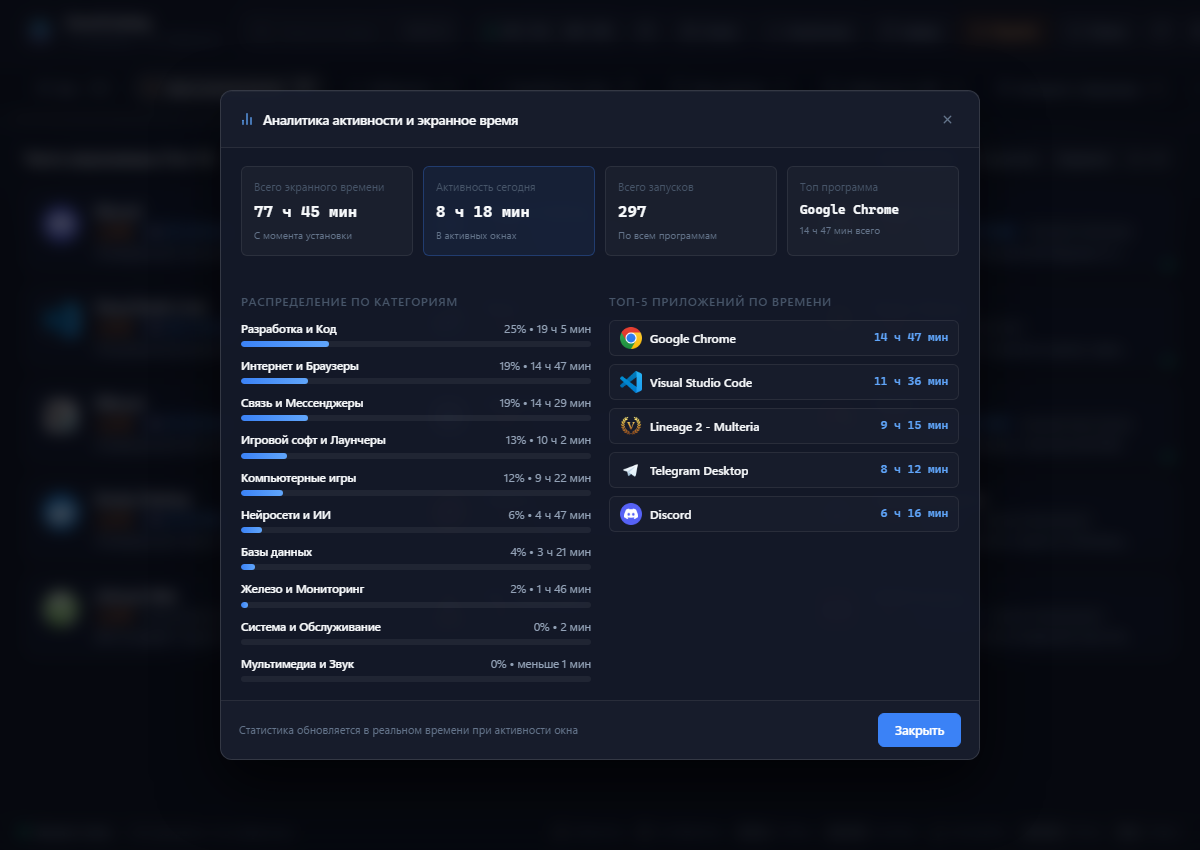
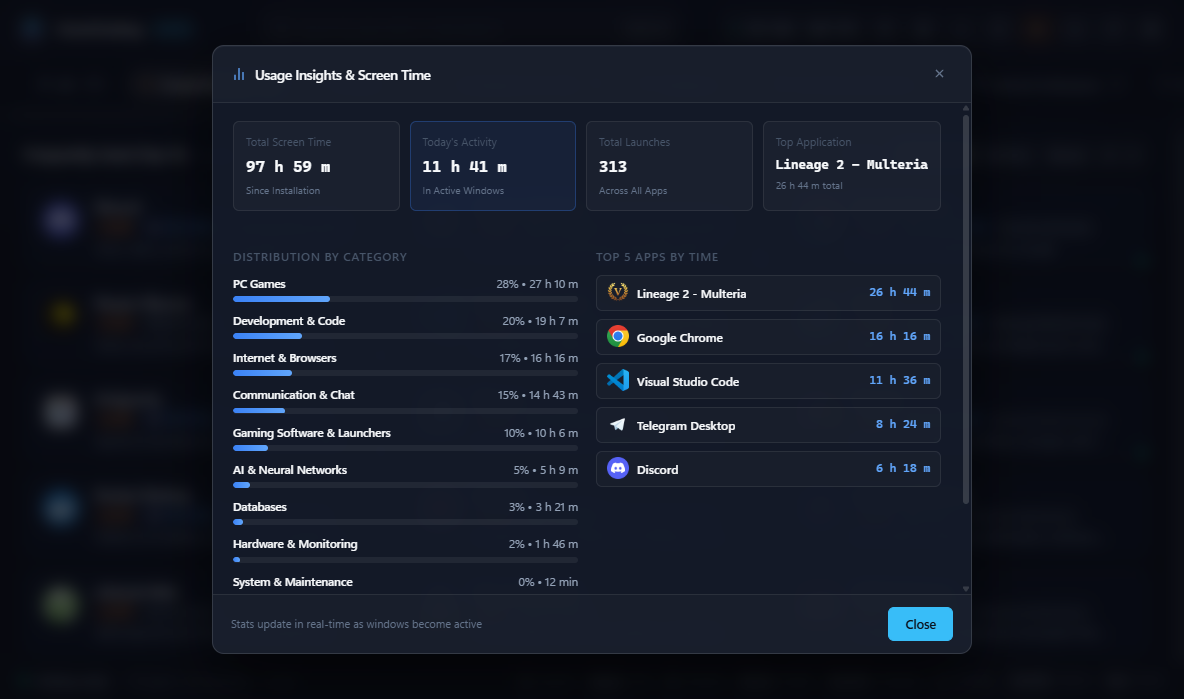
docs(screenshots): update all repository screenshots to English

diff --git a/static/app.js b/static/app.js
@@ -792,6 +792,79 @@ function formatCategoryName(catName) {
   return clean;
 }
 
+const APP_DESCRIPTIONS_EN = {
+  "Discord": "Voice, video, and text communication service",
+  "Telegram Desktop": "Fast and secure cloud-based messaging client",
+  "Google Chrome": "Fast and secure web browser by Google",
+  "Visual Studio Code": "Extensible code editor with rich ecosystem",
+  "Steam": "Ultimate gaming platform and digital game store",
+  "Яндекс Музыка": "Music streaming client for tracks and podcasts",
+  "Yandex Music": "Music streaming client for tracks and podcasts",
+  "Antigravity": "Agentic AI development environment and intelligent workspace",
+  "DBeaver": "Universal SQL client and database management tool",
+  "Playnite": "Open-source video game library manager and launcher",
+  "Docker Desktop": "Platform for building, running, and managing containers",
+  "Postman": "Comprehensive API platform for building and testing APIs",
+  "Samsung Magician": "Drive health monitoring, optimization, and benchmark tool",
+  "uTorrent Web": "Web-based torrent client for downloading files",
+  "VLC media player": "Free and open-source cross-platform multimedia player",
+  "AIDA64 Extreme": "Complete hardware diagnostics and system information",
+  "Git Bash": "Git command-line shell and version control tools",
+  "AmneziaVPN": "Client for private and censorship-resistant VPN protocols",
+  "Hydra Launcher": "Launcher and game library manager with embedded client",
+  "Ludusavi (Бэкап сохранений)": "Backup tool for PC video game save files",
+  "Ludusavi": "Backup tool for PC video game save files"
+};
+
+const CATEGORY_DEFAULT_DESC_EN = {
+  "01. Разработка и Код": "Development environment, compiler, or programming tool",
+  "Разработка и Код": "Development environment, compiler, or programming tool",
+  "02. Базы данных": "Database management system and client tool",
+  "Базы данных": "Database management system and client tool",
+  "03. Нейросети и ИИ": "AI assistant, local neural network, or LLM tool",
+  "Нейросети и ИИ": "AI assistant, local neural network, or LLM tool",
+  "04. Интернет и Браузеры": "Web browser and internet navigation tool",
+  "Интернет и Браузеры": "Web browser and internet navigation tool",
+  "05. Связь и Мессенджеры": "Instant messenger, VoIP, and communication software",
+  "Связь и Мессенджеры": "Instant messenger, VoIP, and communication software",
+  "05. Мессенджеры и Связь": "Instant messenger, VoIP, and communication software",
+  "Мессенджеры и Связь": "Instant messenger, VoIP, and communication software",
+  "06. Удаленный доступ и Сеть": "Remote desktop client, VPN, or network tool",
+  "Удаленный доступ и Сеть": "Remote desktop client, VPN, or network tool",
+  "07. Мультимедиа и Звук": "Media player, audio editor, or streaming service",
+  "Мультимедиа и Звук": "Media player, audio editor, or streaming service",
+  "08. Компьютерные игры": "PC video game and interactive entertainment",
+  "09. Компьютерные игры": "PC video game and interactive entertainment",
+  "Компьютерные игры": "PC video game and interactive entertainment",
+  "09. Игровой софт и Лаунчеры": "Gaming platform, store launcher, or mod manager",
+  "10. Игровой софт и Лаунчеры": "Gaming platform, store launcher, or mod manager",
+  "Игровой софт и Лаунчеры": "Gaming platform, store launcher, or mod manager",
+  "10. Офис и Документы": "Office suite, document processor, or reader",
+  "11. Офис и Документы": "Office suite, document processor, or reader",
+  "Офис и Документы": "Office suite, document processor, or reader",
+  "11. Железо и Мониторинг": "Hardware monitoring, benchmark, or telemetry utility",
+  "Железо и Мониторинг": "Hardware monitoring, benchmark, or telemetry utility",
+  "12. Система и Обслуживание": "System utility, maintenance, or OS configuration tool",
+  "Система и Обслуживание": "System utility, maintenance, or OS configuration tool",
+  "13. Безопасность и Антивирусы": "Security suite, antivirus, or firewall utility",
+  "Безопасность и Антивирусы": "Security suite, antivirus, or firewall utility"
+};
+
+function formatAppDescription(app) {
+  if (!app) return '';
+  const lang = userData.settings?.language || 'ru';
+  if (lang === 'en') {
+    if (APP_DESCRIPTIONS_EN[app.name]) return APP_DESCRIPTIONS_EN[app.name];
+    if (CATEGORY_DEFAULT_DESC_EN[app.category]) return CATEGORY_DEFAULT_DESC_EN[app.category];
+    const cleanCat = (app.category || '').replace(/^\d+\.\s*/, '').trim();
+    if (CATEGORY_DEFAULT_DESC_EN[cleanCat]) return CATEGORY_DEFAULT_DESC_EN[cleanCat];
+    if (/[\u0400-\u04FF]/.test(app.description || '')) {
+      return formatCategoryName(app.category) || 'Windows Application';
+    }
+  }
+  return app.description || t('appDefaultDesc', 'Приложение Windows');
+}
+
 function applyAccentColor(colorKey) {
   const palette = ACCENT_PALETTES[colorKey] || ACCENT_PALETTES.blue;
   document.documentElement.style.setProperty('--accent', palette.accent);
@@ -1462,7 +1535,7 @@ function openQuickLook(app) {
     qlNewBadge.textContent = t('badgeNew', 'НОВОЕ');
   }
   
-  if (qlDesc) qlDesc.textContent = app.description || '—';
+  if (qlDesc) qlDesc.textContent = formatAppDescription(app) || '—';
   if (qlPath) qlPath.textContent = app.target || app.lnk_path || '—';
   
   // Stats
@@ -2175,8 +2248,8 @@ function renderApps() {
           ${playtimeBadgeHtml}
           <span class="app-category-badge">${shortCat}</span>
         </div>
-        <div class="app-description" title="${app.description || ''}">
-          ${app.description || t('appDefaultDesc', 'Приложение Windows')}
+        <div class="app-description" title="${formatAppDescription(app)}">
+          ${formatAppDescription(app)}
         </div>
       </div>
       <div class="compact-launch-hint">
@@ -3026,6 +3099,22 @@ async function renderWorkspacesList() {
       const card = document.createElement('div');
       card.className = 'workspace-card';
 
+      const isEn = (userData.settings?.language === 'en');
+      let displayName = ws.name;
+      let displayDesc = ws.description;
+      if (isEn) {
+        if (ws.id === 'ws_dev' || ws.name === 'Разработка') {
+          displayName = 'Development';
+          displayDesc = 'VS Code, Docker Desktop, Git Bash, DBeaver';
+        } else if (ws.id === 'ws_gaming' || ws.name.includes('Игры') || ws.name.includes('Связь')) {
+          displayName = 'Gaming & Communication';
+          displayDesc = 'Steam, Discord, Telegram';
+        } else if (ws.id === 'ws_office' || ws.name.includes('Офис')) {
+          displayName = 'Office & Productivity';
+          displayDesc = 'Google Chrome, Telegram, Office utilities';
+        }
+      }
+
       let iconsHtml = '';
       let tagsHtml = '';
       const appIds = ws.apps || [];
@@ -3042,8 +3131,8 @@ async function renderWorkspacesList() {
         <div class="ws-header">
           <span class="ws-icon">${ws.icon || '🚀'}</span>
           <div class="ws-title-wrap">
-            <div class="ws-name">${escapeHtml(ws.name)}</div>
-            <div class="ws-desc">${escapeHtml(ws.description || `${appIds.length} ${t('wsAppsInStack')}`)}</div>
+            <div class="ws-name">${escapeHtml(displayName)}</div>
+            <div class="ws-desc">${escapeHtml(displayDesc || `${appIds.length} ${t('wsAppsInStack')}`)}</div>
           </div>
           <div class="ws-card-actions">
             <button class="ws-icon-btn edit-ws-btn" title="${t('wsEditTitle')}">
